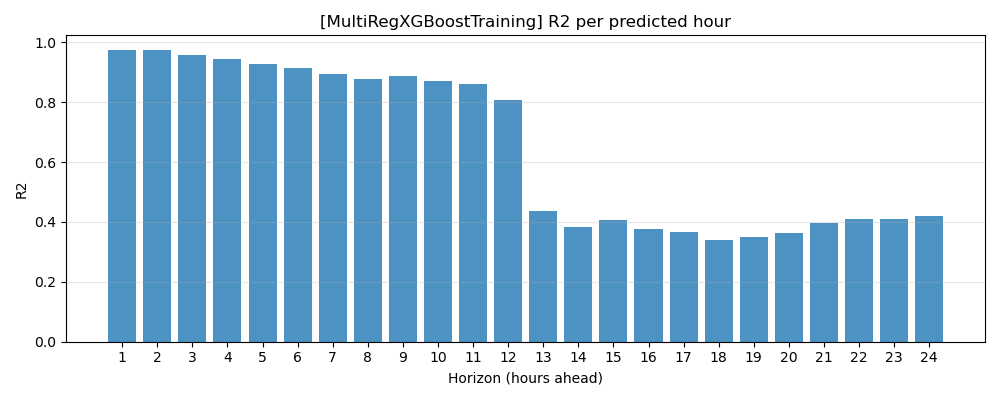
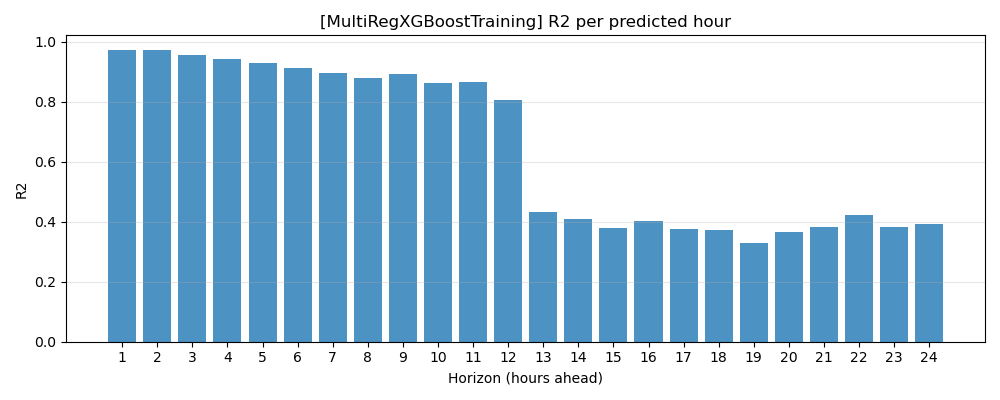
changed from 'renewable' to 'green_generation_ratio' to be unambiguous with nuclear

diff --git a/preprocessing.py b/preprocessing.py
@@ -207,7 +207,7 @@ class Preprocessing(BaseEstimator, TransformerMixin):
             
             df["total_renewable_generation"] = df[renew_cols].sum(axis=1) if renew_cols else 0.0
             df["total_fossil_generation"] = df[fossil_cols].sum(axis=1) if fossil_cols else 0.0
-            df["renewable_generation_ratio"] = df["total_renewable_generation"] / (df["total_renewable_generation"] + df["total_fossil_generation"])
+            df["green_generation_ratio"] = df["total_renewable_generation"] / (df["total_renewable_generation"] + df["total_fossil_generation"])
 
             # remove the original detailed generation columns
             if self.drop_energy_details:

diff --git a/features.py b/features.py
@@ -335,7 +335,7 @@ class Catch22FeatureExtractor(BaseEstimator, TransformerMixin):
             for k, (start_ids, end_ids) in enumerate(zip(start_ids_list, end_ids_list)):
                 results_col = Parallel(n_jobs=njobs)(
                     delayed(pycatch22.catch22_all)(
-                        X[col].iloc[start_ids[i]:end_ids[i] + 1], catch24=False,  # TODO CHECK IMPACT
+                        X[col].iloc[start_ids[i]:end_ids[i] + 1], catch24=True,  # TODO CHECK IMPACT
                             short_names=True, )
                     for i in range(start_ids.shape[0])
                 )
